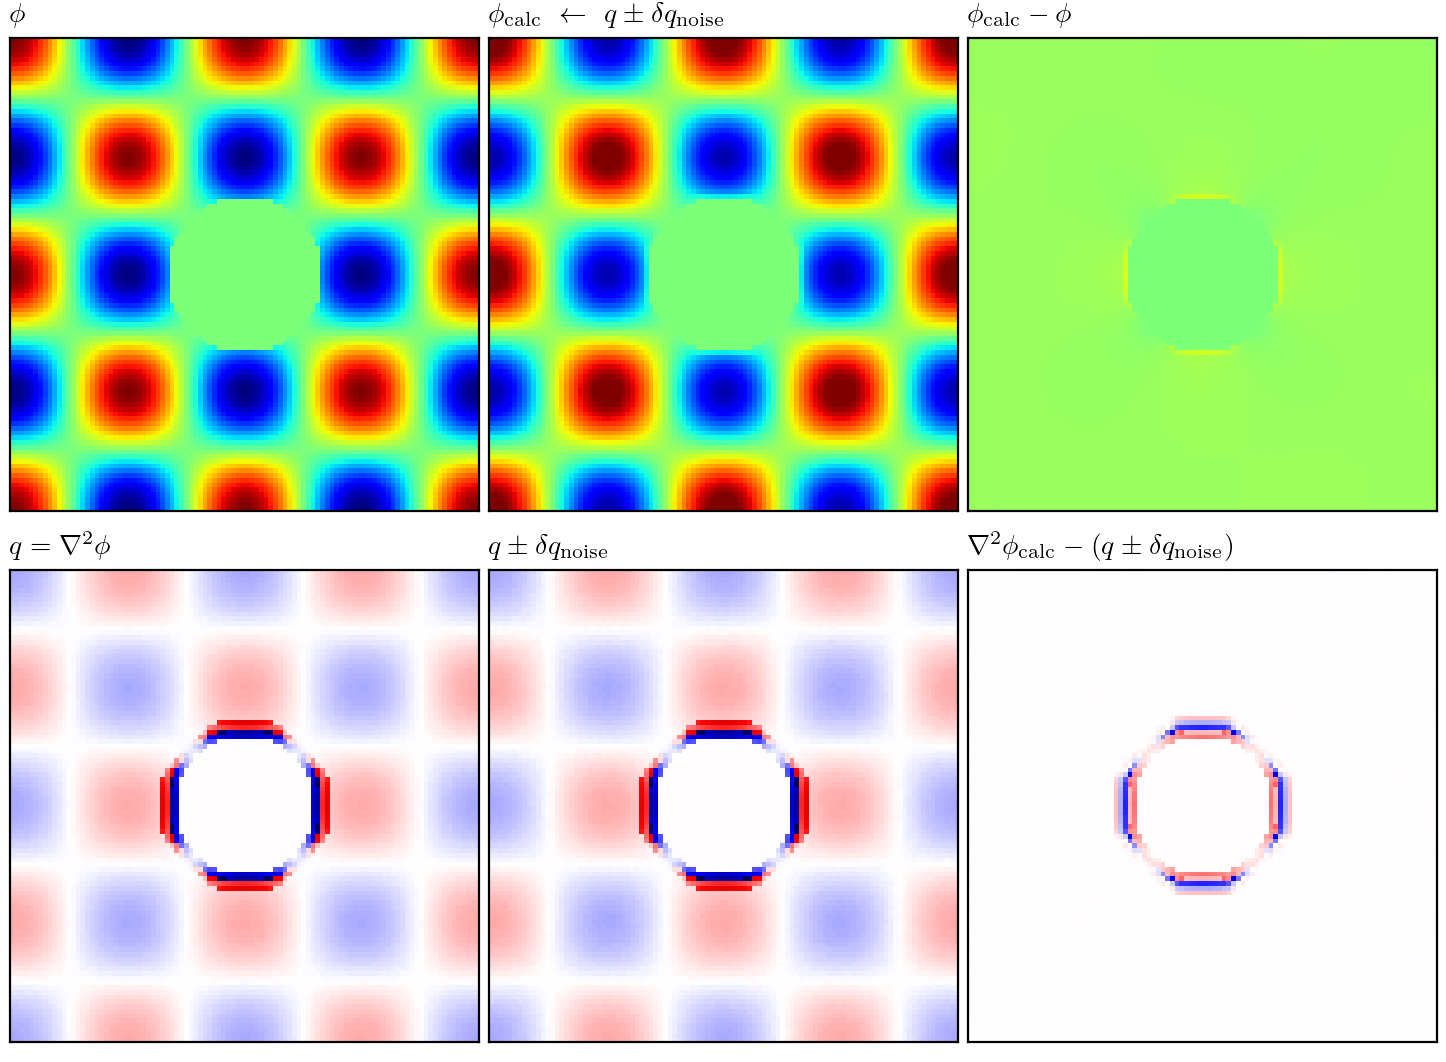
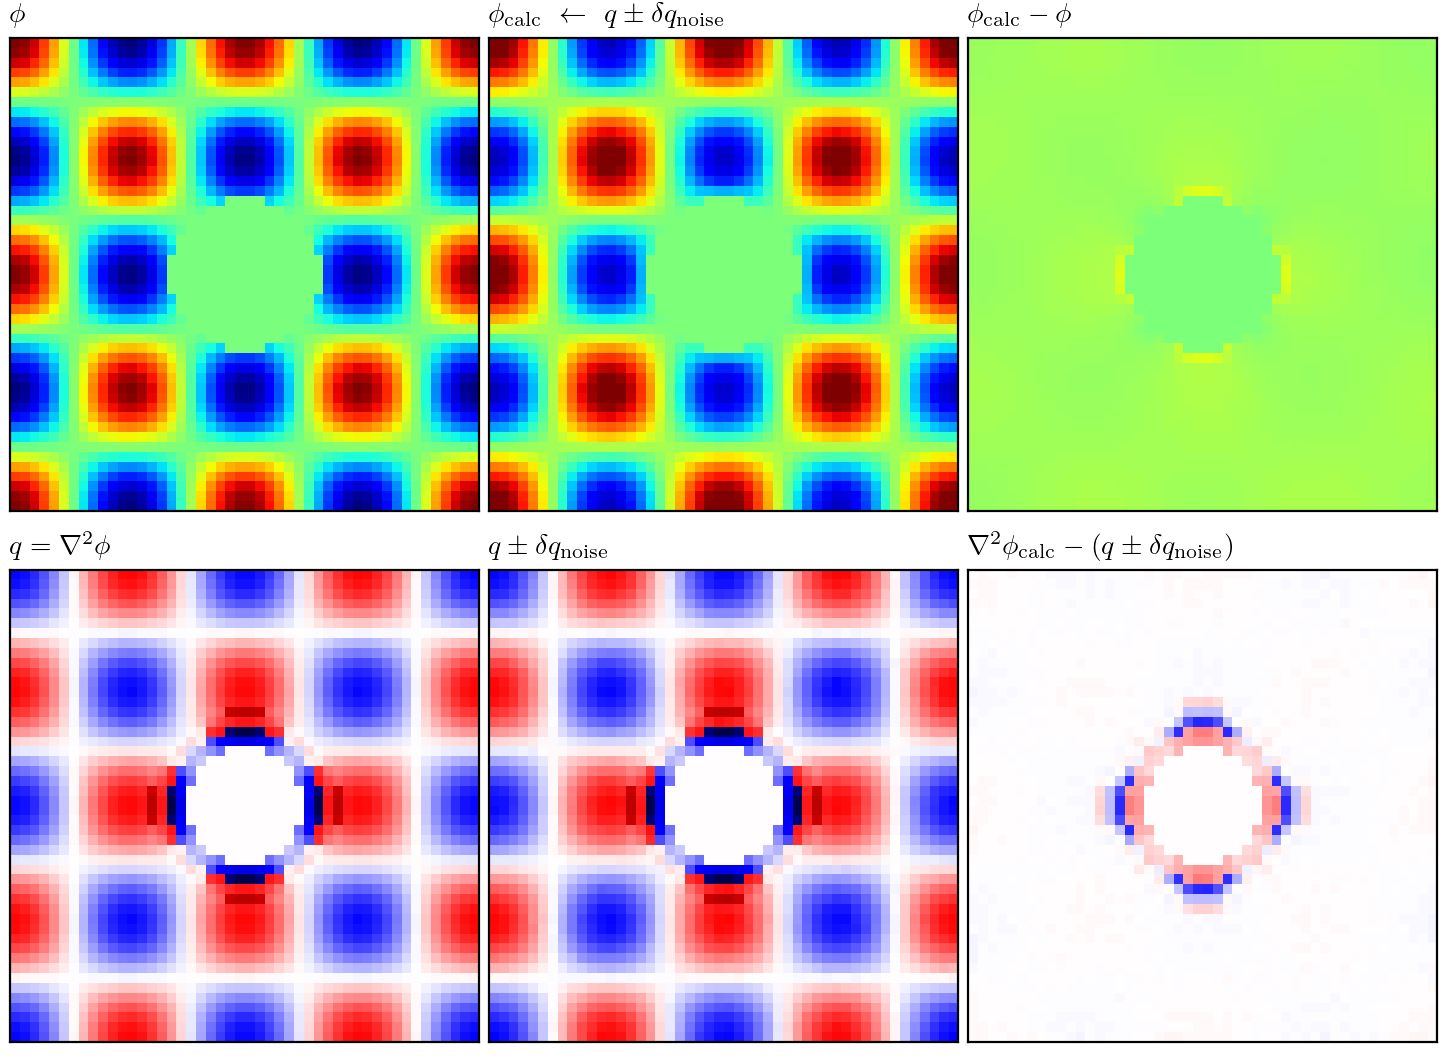
modified:   docs/imgs/poisson_eq_example.png 	modified:   docs/imgs/umap_example.png 	modified:   examples/test_poisson_eq.py

diff --git a/examples/test_poisson_eq.py b/examples/test_poisson_eq.py
@@ -99,7 +99,7 @@ def main(args):
 	ltp.load_backend("default")
 	
 	lx,ly = 2,2
-	nx,ny = 99,99
+	nx,ny = 47,47
 	
 	noise_lvl = 0.2
 	
